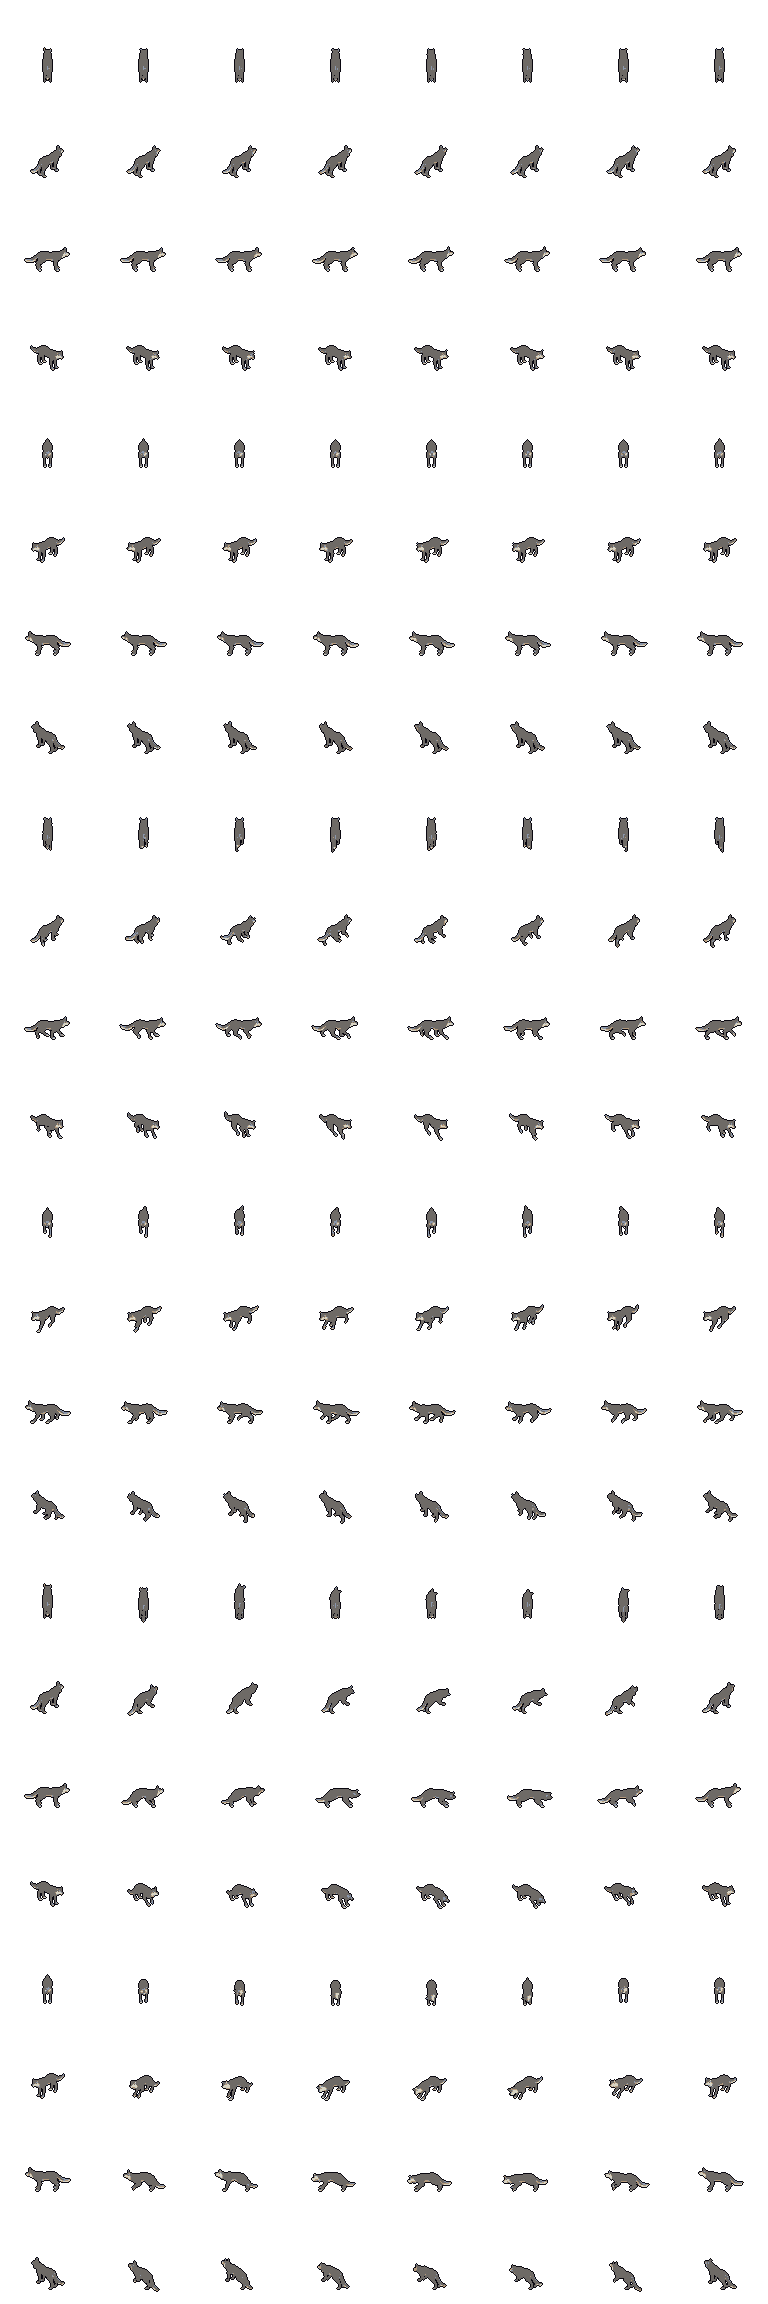
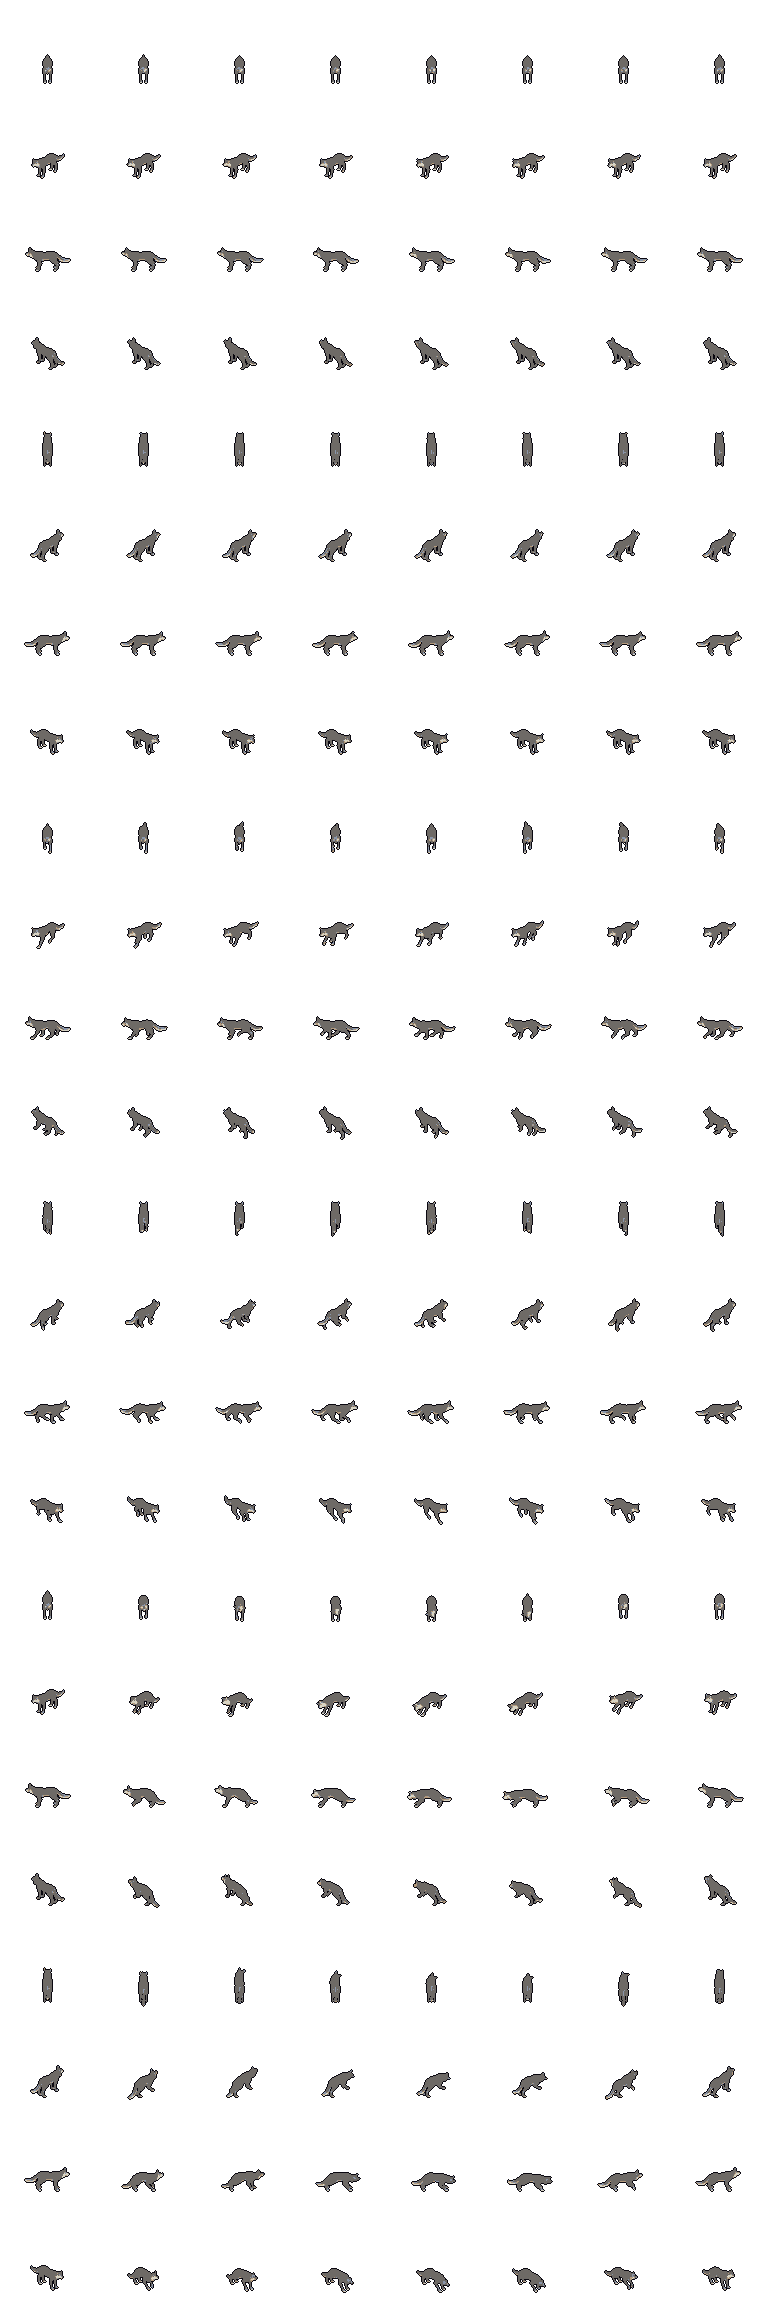
The wolf faces the right way: its sheet was turned 180 degrees (W showed the head on the right), so each facing row is swapped with its opposite

diff --git a/deep16/index.html b/deep16/index.html
@@ -74,7 +74,7 @@
 <script src="js/art.js?v=1b2a34fbd2"></script>
 <script src="data/cavern.js?v=bb07571b02"></script>
 <script src="data/maps.js?v=7846d6ebc8"></script>
-<script src="data/sprites.js?v=0222577004"></script>
+<script src="data/sprites.js?v=2df970c686"></script>
 <script src="js/sprites.js?v=4f7651ca51"></script>
 <script src="js/save.js?v=7b994bec8b"></script>
 <script src="data/spells.js?v=4c8f7edae1"></script>

diff --git a/deep16/data/sprites.js b/deep16/data/sprites.js
@@ -4893,7 +4893,7 @@
 }
 },
 "wolf_p1": {
-"image": "art/wolf_p1.png?v=3a4e784cba",
+"image": "art/wolf_p1.png?v=424bd91b72",
 "fw": 96,
 "fh": 96,
 "ax": 48,
